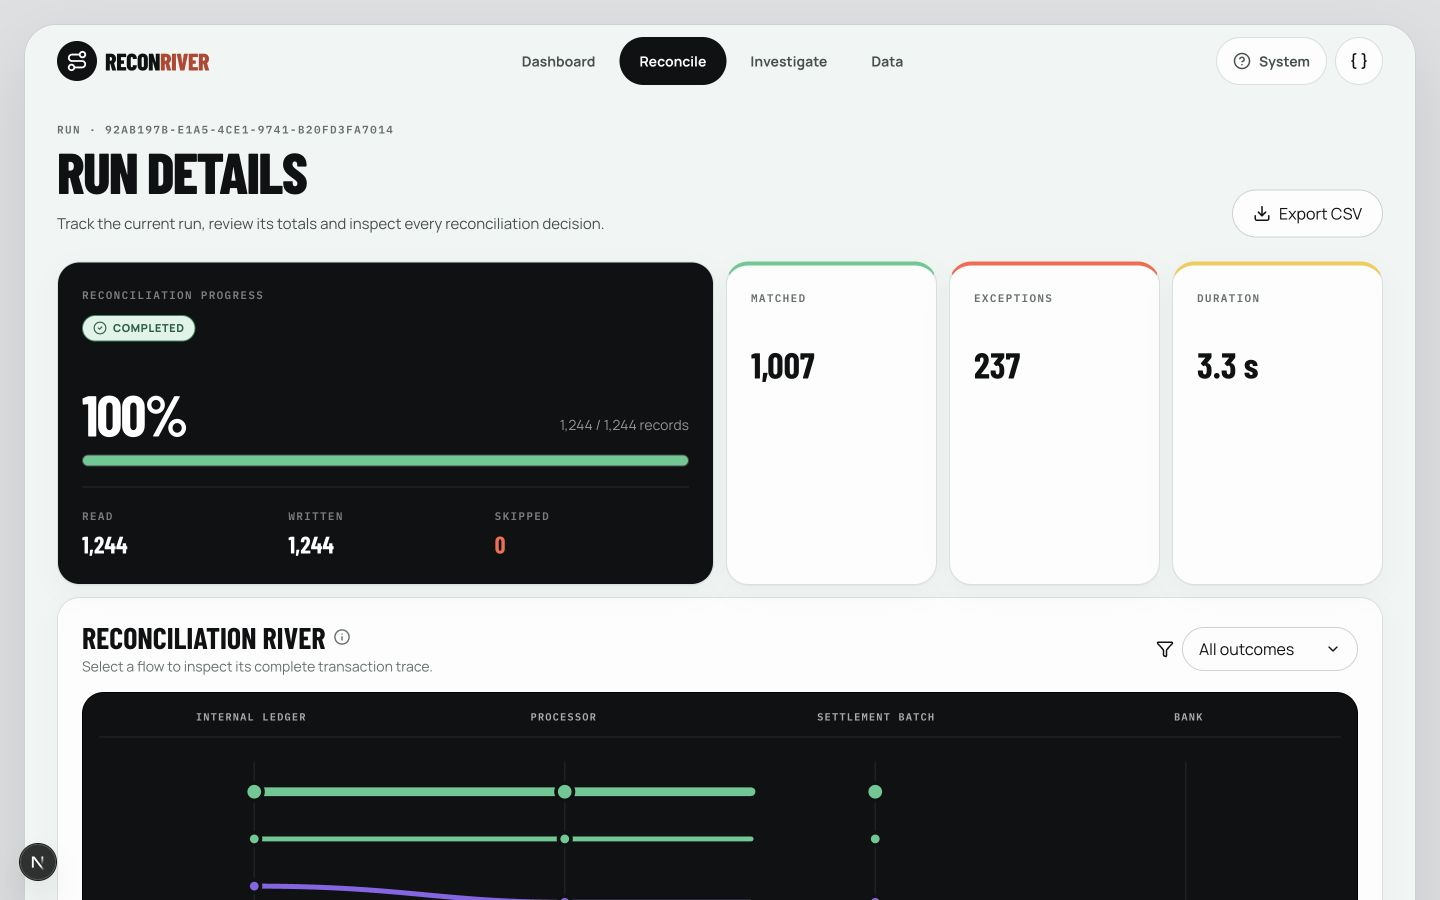
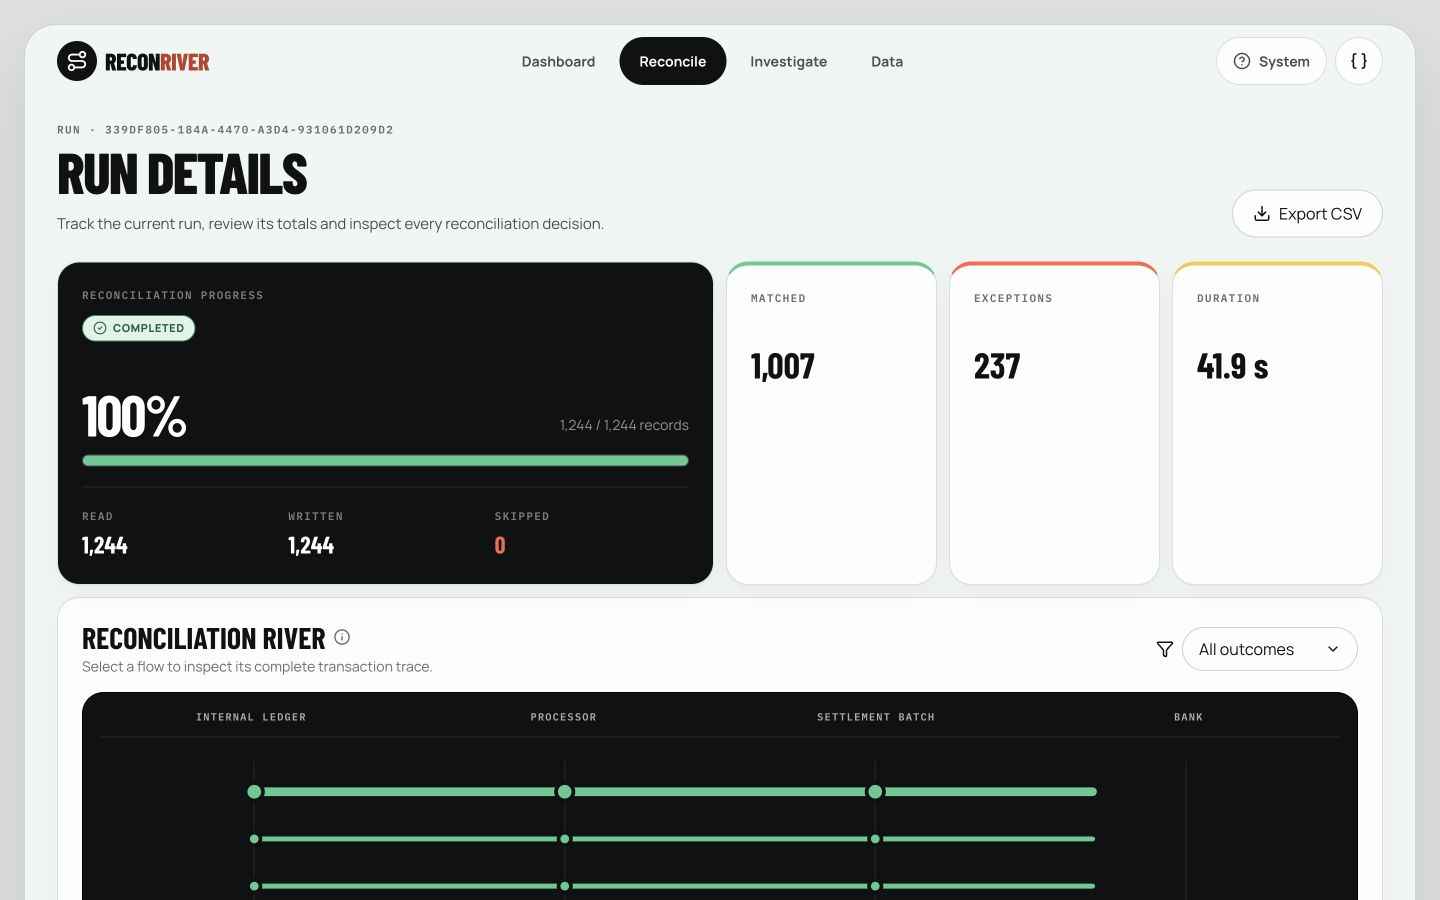
fix: finalize workspace audit attribution

diff --git a/backend/reconciliation-api/src/main/java/io/github/heybadrinath/reconriver/ingestion/ImportStagingService.java b/backend/reconciliation-api/src/main/java/io/github/heybadrinath/reconriver/ingestion/ImportStagingService.java
@@ -179,7 +179,7 @@ class ImportStagingService {
                 INSERT INTO audit_event
                     (id,workspace_id,aggregate_type,aggregate_id,event_type,actor_type,details,occurred_at)
                 VALUES
-                    (:id,:workspace,'IMPORT',:aggregate,'IMPORT_QUEUED','DEMO_OPERATOR',CAST(:details AS jsonb),:now)
+                    (:id,:workspace,'IMPORT',:aggregate,'IMPORT_QUEUED','WORKSPACE_OPERATOR',CAST(:details AS jsonb),:now)
                 """)
                 .param("id", UUID.randomUUID())
                 .param("workspace", workspaceId)
@@ -255,7 +255,7 @@ class ImportStagingService {
                 INSERT INTO audit_event
                     (id,workspace_id,aggregate_type,aggregate_id,event_type,actor_type,details,occurred_at)
                 VALUES
-                    (:id,:workspace,'IMPORT',:aggregate,'IMPORT_DUPLICATE_SKIPPED','DEMO_OPERATOR',
+                    (:id,:workspace,'IMPORT',:aggregate,'IMPORT_DUPLICATE_SKIPPED','WORKSPACE_OPERATOR',
                      CAST(:details AS jsonb),:now)
                 """)
                 .param("id", UUID.randomUUID())

diff --git a/backend/reconciliation-api/src/main/java/io/github/heybadrinath/reconriver/investigation/InvestigationService.java b/backend/reconciliation-api/src/main/java/io/github/heybadrinath/reconriver/investigation/InvestigationService.java
@@ -230,7 +230,7 @@ public class InvestigationService {
     private void appendAudit(
             UUID workspaceId, UUID resultId, String event, String note, Instant now) {
         jdbc.sql(
-                        "INSERT INTO audit_event (id,workspace_id,aggregate_type,aggregate_id,event_type,actor_type,details,occurred_at) VALUES (:id,:workspace,'RECONCILIATION_RESULT',:result,:event,'DEMO_OPERATOR',CAST(:details AS jsonb),:now)")
+                        "INSERT INTO audit_event (id,workspace_id,aggregate_type,aggregate_id,event_type,actor_type,details,occurred_at) VALUES (:id,:workspace,'RECONCILIATION_RESULT',:result,:event,'WORKSPACE_OPERATOR',CAST(:details AS jsonb),:now)")
                 .param("id", UUID.randomUUID())
                 .param("workspace", workspaceId)
                 .param("result", resultId)

diff --git a/backend/reconciliation-api/src/main/java/io/github/heybadrinath/reconriver/reconciliation/ReconciliationRunService.java b/backend/reconciliation-api/src/main/java/io/github/heybadrinath/reconriver/reconciliation/ReconciliationRunService.java
@@ -596,7 +596,7 @@ public class ReconciliationRunService {
 
     private void audit(UUID workspaceId, UUID aggregateId, String event, Map<String, ?> details) {
         jdbc.sql(
-                        "INSERT INTO audit_event (id,workspace_id,aggregate_type,aggregate_id,event_type,actor_type,details,occurred_at) VALUES (:id,:workspace,'RECONCILIATION_RUN',:aggregate,:event,'DEMO_OPERATOR',CAST(:details AS jsonb),:now)")
+                        "INSERT INTO audit_event (id,workspace_id,aggregate_type,aggregate_id,event_type,actor_type,details,occurred_at) VALUES (:id,:workspace,'RECONCILIATION_RUN',:aggregate,:event,'WORKSPACE_OPERATOR',CAST(:details AS jsonb),:now)")
                 .param("id", UUID.randomUUID())
                 .param("workspace", workspaceId)
                 .param("aggregate", aggregateId)

diff --git a/backend/reconciliation-api/src/main/java/io/github/heybadrinath/reconriver/ingestion/ImportService.java b/backend/reconciliation-api/src/main/java/io/github/heybadrinath/reconriver/ingestion/ImportService.java
@@ -585,7 +585,7 @@ public class ImportService {
 
     private void audit(UUID workspaceId, UUID aggregateId, String event, Map<String, ?> details) {
         jdbc.sql(
-                        "INSERT INTO audit_event (id,workspace_id,aggregate_type,aggregate_id,event_type,actor_type,details,occurred_at) VALUES (:id,:workspace,'IMPORT',:aggregate,:event,'DEMO_OPERATOR',CAST(:details AS jsonb),:now)")
+                        "INSERT INTO audit_event (id,workspace_id,aggregate_type,aggregate_id,event_type,actor_type,details,occurred_at) VALUES (:id,:workspace,'IMPORT',:aggregate,:event,'WORKSPACE_OPERATOR',CAST(:details AS jsonb),:now)")
                 .param("id", UUID.randomUUID())
                 .param("workspace", workspaceId)
                 .param("aggregate", aggregateId)

diff --git a/backend/reconciliation-api/src/test/java/io/github/heybadrinath/reconriver/workspace/ApplicationIntegrationTest.java b/backend/reconciliation-api/src/test/java/io/github/heybadrinath/reconriver/workspace/ApplicationIntegrationTest.java
@@ -885,7 +885,8 @@ class ApplicationIntegrationTest {
                         HttpStatus.OK);
         assertThat(detail.path("resolutions")).hasSize(2);
         assertThat(detail.path("auditEvents").toString())
-                .contains("EXCEPTION_RESOLVED", "EXCEPTION_REOPENED");
+                .contains("EXCEPTION_RESOLVED", "EXCEPTION_REOPENED", "WORKSPACE_OPERATOR")
+                .doesNotContain("DEMO_OPERATOR");
 
         JsonNode audit =
                 request(

diff --git a/design-qa.md b/design-qa.md
@@ -1,45 +1,47 @@
 # Design QA
 
-**final result: blocked**
+**final result: passed**
 
 ## Findings
 
-- No actionable P0, P1, or P2 visual mismatch remains in the checked local states.
-- Handoff remains blocked until the redesigned frontend is deployed and the same journey, responsive, accessibility, console, and reference-comparison checks pass against the public URL.
+- No actionable P0, P1, or P2 visual, responsive, interaction, or console defect remains in the checked production states.
+- UI commit `905a9e9` is deployed to the canonical Vercel alias and Render. GitHub Actions run `31328763571` completed with every required job green.
+- The public mixed-exceptions journey reproduced the expected inputs, reconciliation totals, exception investigation, resolution, reopen, and audit history.
+- Automated axe evidence comes from the exact local build deployed to production. The live browser sandbox did not permit reinjection, so this record does not claim a separate live axe run.
 
 ## Visual truth and normalization
 
 - Source visual truth: user-supplied 2048 × 1536 dashboard reference, retained locally and intentionally not redistributed by the repository.
-- Combined landing comparison: `frontend/.design-qa/redesign/reference-vs-landing-final.jpg` — 2880 × 900 px, local-only.
-- Combined dashboard comparison: `frontend/.design-qa/redesign/reference-vs-overview.png` — 1600 × 600 px, local-only.
-- Primary implementation capture: `frontend/.design-qa/redesign/landing-desktop-final-viewport.jpg` — 1440 × 900 px at a 1440 × 900 CSS viewport.
-- Responsive implementation capture: `frontend/.design-qa/redesign/landing-mobile-final.jpg` — 390 × 844 px at a 390 × 844 CSS viewport.
+- Final production comparison: `frontend/.design-qa/redesign/reference-vs-landing-live-final.jpg` — 2880 × 900 px, local-only.
+- Production landing capture: `frontend/.design-qa/redesign/landing-live-final.jpg` — 1440 × 900 px at a 1440 × 900 CSS viewport.
+- Production run capture: `frontend/.design-qa/redesign/run-details-live-final.jpg` — 1440 × 900 px at a 1440 × 900 CSS viewport.
+- Production mobile captures: `landing-mobile-live-final.jpg`, `run-details-mobile-live-final.jpg`, and `river-mobile-live-final.jpg` — 390 × 844 px at a 390 × 844 CSS viewport.
 - Implementation capture pixels match their CSS viewport dimensions, so no density normalization was required.
+
+All evidence paths are under the ignored `frontend/.design-qa/redesign/` directory and remain local-only.
 
 The source is a finance-dashboard reference rather than a screen-for-screen ReconRiver specification. The comparison therefore evaluates its visual language—shell, hierarchy, density, typography, surfaces, contrast, semantic color, and responsive discipline—without treating different product content as drift.
 
-## Flow evidence
+## Production flow evidence
 
-| Step | State                   | Accepted evidence                                                | Health          |
-| ---: | ----------------------- | ---------------------------------------------------------------- | --------------- |
-|    1 | Landing                 | `landing-desktop-final-viewport.jpg`, `landing-mobile-final.jpg` | Healthy locally |
-|    2 | Scenario selection      | `scenarios-desktop.png`                                          | Healthy locally |
-|    3 | Scenario file preview   | `scenario-preview-desktop.png`                                   | Healthy locally |
-|    4 | Imported source review  | `imports-desktop.png`                                            | Healthy locally |
-|    5 | Ready to reconcile      | `runs-ready-desktop.png`                                         | Healthy locally |
-|    6 | Completed run           | `run-details-desktop-final.jpg`, `run-details-mobile.png`        | Healthy locally |
-|    7 | Reconciliation overview | `overview-desktop.png`, `overview-mobile-v2.png`                 | Healthy locally |
-|    8 | Exception investigation | `exceptions-desktop.png`                                         | Healthy locally |
-|    9 | Dataset                 | `dataset-desktop.png`                                            | Healthy locally |
-|   10 | Architecture            | `architecture-desktop.png`                                       | Healthy locally |
+| Step | State                   | Accepted evidence                                                                                  | Health              |
+| ---: | ----------------------- | -------------------------------------------------------------------------------------------------- | ------------------- |
+|    1 | Landing                 | `landing-live-final.jpg`, `landing-mobile-live-final.jpg`                                          | Verified production |
+|    2 | Scenario selection      | Public mixed-exceptions scenario selected                                                          | Verified production |
+|    3 | Scenario source loading | 2,299 rows accepted and 5 rows quarantined                                                         | Verified production |
+|    4 | Imported source review  | Source readiness and quarantine state inspected                                                    | Verified production |
+|    5 | Reconciliation          | Run `339df805-184a-4470-a3d4-931061d209d2` completed in 41.9 seconds                               | Verified production |
+|    6 | Completed run           | `run-details-live-final.jpg`, `run-details-mobile-live-final.jpg`                                  | Verified production |
+|    7 | Result totals           | 1,244 results: 1,007 matched and 237 exceptions                                                    | Verified production |
+|    8 | Exception investigation | Mobile inspector focus, Decision and Audit interaction, resolve, and reopen exercised              | Verified production |
+|    9 | Audit history           | Both the resolution and reopen audit notes were present                                            | Verified production |
+|   10 | River visualization     | `river-mobile-live-final.jpg`; vertical group measured 316 px at the 390 × 844 production viewport | Verified production |
 
-All evidence paths are under `frontend/.design-qa/redesign/` and remain local-only.
-
-The final local mixed-exceptions journey completed with **1,244 total results**, **1,007 matched**, **237 exceptions**, and a displayed duration of **3.3 seconds**. The screenshots show API-backed data across scenario selection, imports, reconciliation, overview, run details, and investigation rather than disconnected presentation-only screens.
+The production journey used API-backed data across scenario loading, imports, reconciliation, run details, investigation, and audit history. It did not rely on mocked API results.
 
 ## Full-view comparison
 
-The combined `reference-vs-landing-final.jpg` input places the supplied reference and the revised landing screen in one frame at matching 1440 × 900 dimensions. The `reference-vs-overview.png` comparison repeats the exercise with the API-backed reconciliation dashboard, where density and operational hierarchy are directly comparable. The implementation carries over the intended design language without copying the source layout or assets:
+The combined `reference-vs-landing-live-final.jpg` input places the supplied reference and the deployed landing screen in one 2880 × 900 frame. Inspection found no actionable P0, P1, or P2 regression. The production implementation carries over the intended design language without copying the source layout or assets:
 
 - a pale grey environment around a softly tinted, rounded application canvas;
 - compact pill navigation and a decisive black active state;
@@ -49,28 +51,30 @@ The combined `reference-vs-landing-final.jpg` input places the supplied referenc
 - compact KPI cards and restrained semantic accent bars in the real dashboard;
 - strong above-the-fold hierarchy with the primary workspace action visible.
 
-No P0–P2 visual mismatch is visible in this local comparison. The source and implementation have different domains and information architecture, so exact card positions and content are intentionally not compared pixel for pixel.
+The source and implementation have different domains and information architecture, so exact card positions and content are intentionally not compared pixel for pixel.
 
 ## Focused fidelity review
 
-- **Typography:** Barlow Condensed provides the source-like headline and metric density; Manrope keeps explanatory and control copy readable; IBM Plex Mono distinguishes operational metadata. The accepted captures show no clipped headings, broken labels, or accidental fallback typography.
-- **Spacing and layout:** desktop uses a consistent inset shell, compact header, asymmetric cards, fine borders, and restrained radii. Mobile follows a single-column task order without collapsing labels or actions. At both 1280 × 720 and 390 × 844, page `scrollWidth` equalled the viewport width.
+- **Typography:** Barlow Condensed provides the source-like headline and metric density; Manrope keeps explanatory and control copy readable; IBM Plex Mono distinguishes operational metadata. The accepted production captures show no clipped headings, broken labels, or accidental fallback typography.
+- **Spacing and layout:** desktop uses a consistent inset shell, compact header, asymmetric cards, fine borders, and restrained radii. Mobile follows a single-column task order without collapsing labels or actions. The checked production mobile pages had no horizontal document overflow.
 - **Colors and tokens:** the neutral shell and black panels establish hierarchy. Coral is reserved for attention and primary emphasis, green for matched/completed state, yellow for timing, and violet for refund or secondary operational context. Status meaning is repeated in text.
 - **Image and icon quality:** no photographic, avatar, illustration, or logo asset from the supplied reference is reused. ReconRiver uses its own wordmark and consistent Lucide interface icons; there are no placeholder images or low-resolution raster substitutes in the checked screens.
-- **Copy and content:** the interface describes the real reconciliation workflow in concise operator language. Actions state the next step, completed runs expose totals and duration, and investigation copy explains the rule and source evidence.
-- **Controls and states:** active navigation, step progression, completion badges, filters, empty state, export, and investigation actions share one control language. The mobile menu opens, exposes navigation, and closes correctly.
-
-The full-size landing, run, overview, and investigation captures made the required typography, spacing, token, icon, and copy surfaces readable; an additional crop was not needed beyond the two combined comparison inputs.
+- **Copy and content:** the interface describes the reconciliation workflow in concise operator language. Actions state the next step, completed runs expose totals and duration, and investigation copy explains the rule and source evidence.
+- **Controls and states:** active navigation, step progression, completion badges, filters, empty state, export, and investigation actions share one control language. Resolution, reopen, and audit history all remained functional after deployment.
 
 ## Accessibility and responsive evidence
 
 - Desktop viewport: 1440 × 900. Mobile viewport: 390 × 844.
-- Desktop and mobile document `scrollWidth` matched their viewport width in the checked pages.
-- Visible application-owned interactive targets measured at least 44 × 44 px.
-- The completed mobile run returned 29 axe passes, 0 violations, and 0 incomplete checks.
-- The mobile navigation menu was exercised successfully.
-- With the exception queue scrolled to `720px`, the sticky header remained at the top of the viewport. Selecting a queue row moved focus to the labelled exception-details region and scrolled that region into view.
-- The screenshots alone do not establish full accessibility compliance. Keyboard sequence, reduced motion, zoom/text scaling, and console output must be repeated after deployment.
+- On the production mobile landing, run, River, and exception states, document `scrollWidth` and `clientWidth` were both 390 px.
+- The live target-size review inspected 16 landing, 48 run, and 110 exception interactive targets; none measured under 44 × 44 px.
+- The River visualization used a 316 px vertical group at the production mobile viewport.
+- At page `scrollY = 773.5`, the mobile sticky header remained at `top = 0`.
+- Selecting a mobile exception moved focus to the labelled inspector at `scrollY = 720`.
+- The production browser console log list was empty through the checked journey.
+- The exact local build returned 29 axe passes, 0 violations, and 0 incomplete checks. The same UI commit was deployed, and production flow plus live DOM checks established deployment parity.
+- Live axe reinjection was not completed because the browser sandbox rejected the injection. Natural Tab sequence, reduced-motion behavior in production, and zoom/text-scaling were not executed and are not claimed by this report.
+
+Screenshots alone do not establish complete accessibility compliance. The acceptance decision combines exact-build automated evidence with production interaction, focus, sizing, overflow, sticky-position, and console checks.
 
 ## Comparison history
 
@@ -93,21 +97,31 @@ The full-size landing, run, overview, and investigation captures made the requir
 - **P1 — Settlement aging was calculated from a 100-result page but presented like a full-run aggregate.** It is now labelled as a sample with both the loaded and total result counts.
 - **P2 — The scenario action was buried below the file inventory.** The selected scenario and its single `Load sources` action now sit directly below the progress tracker; file details are collapsed by default.
 - **P2 — The canvas overflow rule prevented sticky navigation.** The shell now uses clipping without creating a scroll container; the mobile header remains at `top: 0` after scrolling.
-- **P2 — Workflow and navigation state needed clearer assistive output.** Each step announces completed/current/not-completed state, grouped navigation uses visual state without a false `aria-current`, and exception tabs retain 44px targets.
+- **P2 — Workflow and navigation state needed clearer assistive output.** Each step announces completed/current/not-completed state, grouped navigation uses visual state without a false `aria-current`, and exception tabs retain 44 px targets.
 - **Runtime — Source rows with no currency caused the completed-run screen to fail.** Money formatting now handles absent or invalid currency values explicitly, with regression coverage and a successful reload of the 1,244-result run.
+
+### Iteration 4
+
+- UI commit `905a9e9` passed GitHub Actions run `31328763571` and was deployed to the canonical Vercel alias and Render.
+- The public mixed-exceptions journey completed with exact expected totals, then resolution and reopen were verified with their audit notes.
+- Desktop and mobile production captures, DOM measurements, focus behavior, sticky positioning, target sizes, and console output were checked.
+- The deployed landing was compared with the supplied reference in `reference-vs-landing-live-final.jpg`; no new P0–P2 regression was found.
 
 ## Production acceptance checklist
 
-- [x] Compare the supplied desktop reference with the revised landing and API-backed overview in combined inputs.
-- [x] Complete the local mixed-exceptions journey with API-backed results.
-- [x] Capture the landing, reconcile flow, completed run, overview, exceptions, dataset, and architecture screens.
-- [x] Check desktop and mobile document overflow.
-- [x] Check visible mobile target sizes and run axe on the completed mobile state.
-- [x] Exercise the mobile navigation menu.
-- [ ] Deploy the redesigned frontend.
-- [ ] Repeat the real public mixed-exceptions journey.
-- [ ] Repeat public desktop/mobile screenshots and overflow checks.
-- [ ] Repeat public axe, keyboard, reduced-motion, zoom/text-scaling, focus, and console checks.
-- [ ] Compare the deployed landing screen with the supplied reference and confirm no P0–P2 regression.
+- [x] Compare the supplied desktop reference with the deployed landing in a combined input.
+- [x] Confirm no P0–P2 regression in the final production comparison.
+- [x] Deploy UI commit `905a9e9` to the canonical Vercel alias and Render.
+- [x] Confirm GitHub Actions run `31328763571` completed with all required jobs green.
+- [x] Complete the real public mixed-exceptions journey with API-backed results.
+- [x] Verify expected source, result, match, and exception counts.
+- [x] Resolve and reopen an exception and verify both audit notes.
+- [x] Capture public desktop and mobile landing, completed-run, and River states.
+- [x] Check public mobile overflow, target sizes, sticky header, inspector focus, and console output.
+- [x] Run axe against the exact build deployed to production.
+- [ ] Reinject axe into the live page; the browser sandbox blocked injection, so no live axe result is claimed.
+- [ ] Exercise and record the complete natural Tab sequence in production.
+- [ ] Exercise and record reduced-motion behavior in production.
+- [ ] Exercise and record production zoom/text-scaling behavior.
 
-**Blocking condition:** the redesigned build has not yet completed production redeploy and live verification.
+The unchecked supplementary accessibility checks are recorded explicitly rather than inferred. They do not invalidate the accepted exact-build automated evidence, successful public user journey, live DOM measurements, or final visual comparison.
